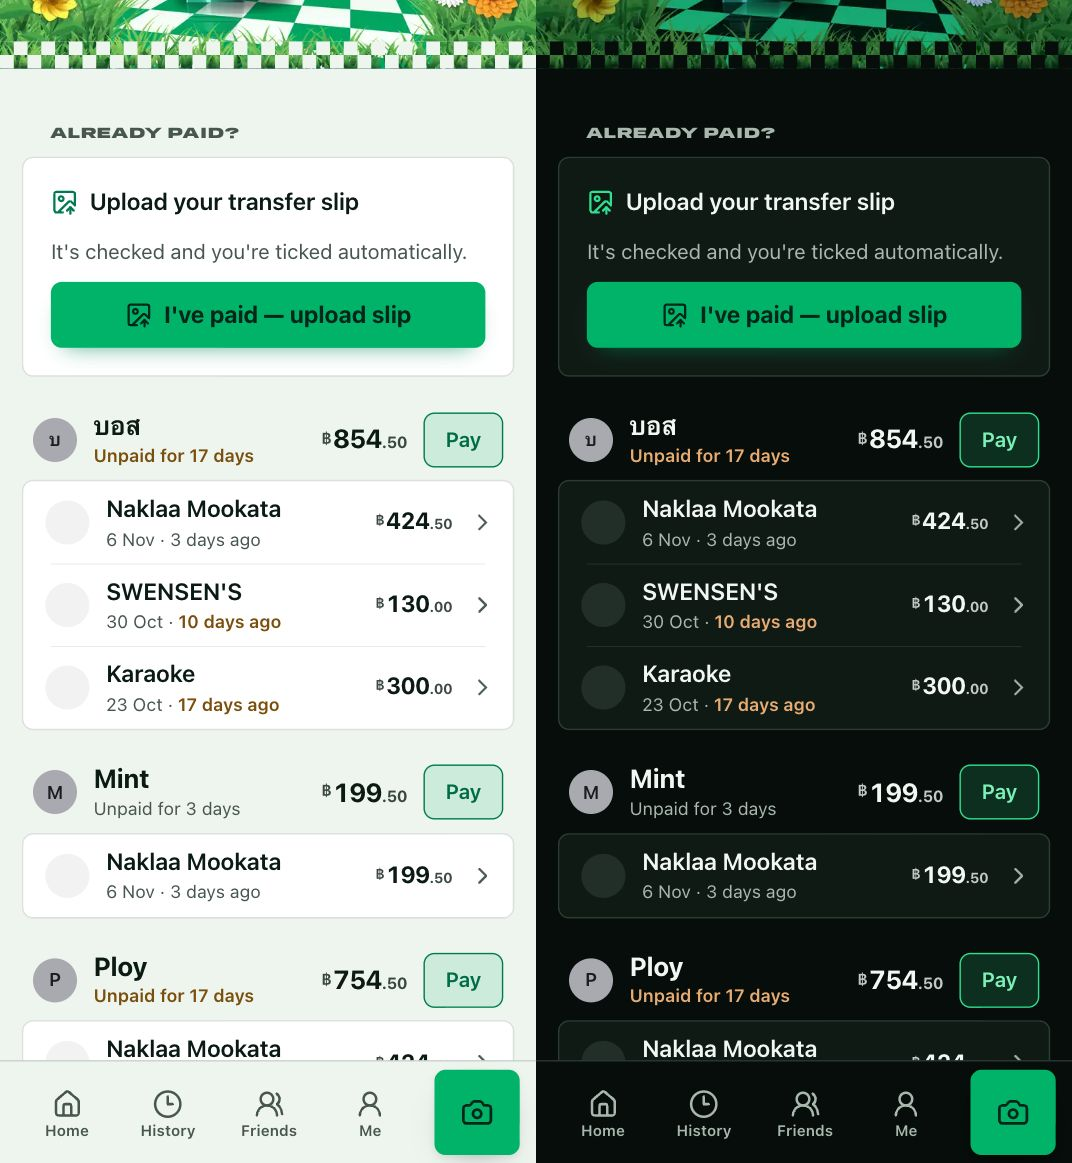
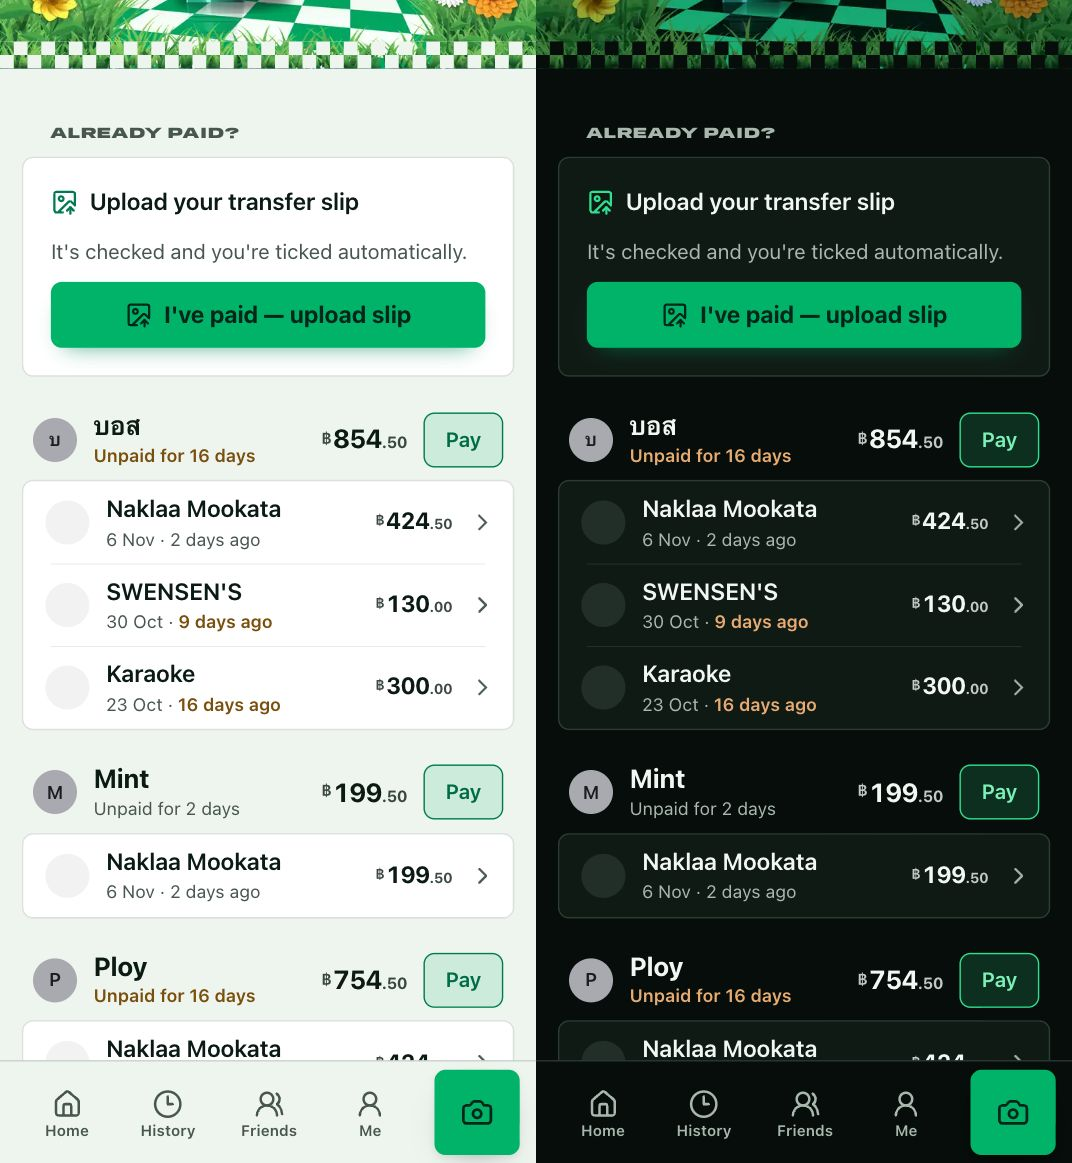
Shared list: who pays fastest; Owed to you: no sort switch
- The shared "Owed to …" list ranks who pays fastest too, counted from
  the start of each bill's day in Thailand so it agrees with "Unpaid for
  16 days" above it. The ranking is its own component, shared with Owed
  to you.
- Owed to you drops the Most owed / Waiting longest switch (most owed
  first, as before).
- Days on the shared list come from the bill's own day, so a server in
  another time zone doesn't count one too many.

diff --git a/src/components/OwedToYou.tsx b/src/components/OwedToYou.tsx
@@ -1,20 +1,18 @@
 "use client";
 
-import { CheckCheck, ChevronDown, ChevronRight, PartyPopper, Timer } from "lucide-react";
+import { CheckCheck, ChevronDown, ChevronRight, PartyPopper } from "lucide-react";
 import Link from "next/link";
 import { useEffect, useState } from "react";
 import { claimMySplits } from "@/lib/client/claim";
 import { askConfirm } from "@/lib/client/confirm";
 import { refreshEntries, refreshEntry } from "@/lib/client/historyRefresh";
-import { getEditToken, getHistory, load, save as saveLocal, type HistoryEntry } from "@/lib/client/storage";
-import { dayCount, daysBetween, owedToYou, paySpeed, type OwedBill, type OwedFriend, type PayerSpeed } from "@/lib/owed";
+import { getEditToken, getHistory, type HistoryEntry } from "@/lib/client/storage";
+import { dayCount, daysBetween, owedToYou, paySpeed, type OwedBill, type OwedFriend } from "@/lib/owed";
 import { getProfile } from "@/lib/client/profile";
 import { BoardLinkCard } from "./BoardLinkCard";
 import { PaidMark, PaymentSheet, type PaymentInput } from "./Payments";
-import { Avatar, Callout, ICON, Money, Section, Segmented, cx } from "./ui";
-
-type Order = "amount" | "waiting";
-const ORDER_KEY = "bs:owedOrder";
+import { PaySpeedList } from "./PaySpeedList";
+import { Avatar, Callout, ICON, Money, cx } from "./ui";
 
 /** How long this friend's oldest unpaid bill has waited, in days. */
 const waited = (f: OwedFriend, now: number) => Math.max(...f.bills.map((b) => daysBetween(b.date, now)));
@@ -28,7 +26,6 @@ export function OwedToYou() {
   const [ask, setAsk] = useState<{ f: OwedFriend; b: OwedBill } | null>(null);
   const [busy, setBusy] = useState<Set<string>>(new Set());
   const [error, setError] = useState<string | null>(null);
-  const [order, setOrder] = useState<Order>(() => load<Order>(ORDER_KEY, "amount"));
   const [now] = useState(Date.now);
 
   /** Records a payment on one bill (with that bill's edit token), then refreshes it. */
@@ -94,7 +91,6 @@ export function OwedToYou() {
   }, []);
 
   const friends = owedToYou(entries);
-  if (order === "waiting") friends.sort((a, b) => waited(b, now) - waited(a, now) || b.total - a.total);
   const speed = paySpeed(entries, now);
   const totals = new Map<string, number>();
   for (const f of friends) totals.set(f.currency, (totals.get(f.currency) ?? 0) + f.total);
@@ -127,18 +123,6 @@ export function OwedToYou() {
       </p>
       <BoardLinkCard name={myName} />
       {error && <Callout tone="error">{error}</Callout>}
-      <Segmented
-        label="Order"
-        value={order}
-        onChange={(o) => {
-          setOrder(o);
-          saveLocal(ORDER_KEY, o);
-        }}
-        options={[
-          { value: "amount", label: "Most owed" },
-          { value: "waiting", label: "Waiting longest" },
-        ]}
-      />
       <ul className="card rows overflow-hidden">
         {friends.map((f) => (
           <FriendRow
@@ -254,42 +238,5 @@ function FriendRow({
         </ul>
       )}
     </li>
-  );
-}
-
-/** Friends ranked by how fast they pay you. */
-function PaySpeedList({ speed }: { speed: PayerSpeed[] }) {
-  if (speed.length < 2) return null;
-  return (
-    <Section title="Who pays fastest">
-      <ol className="card rows overflow-hidden">
-        {speed.map((p, i) => {
-          const d = Math.round(p.days);
-          const bills = p.paid + p.unpaid;
-          return (
-            <li key={p.key} className="flex min-h-[60px] items-center gap-3 py-2 pr-5 pl-4">
-              <span className="w-6 shrink-0 text-center text-[15px] font-bold text-ink-2 tabular-nums">{i + 1}</span>
-              <Avatar person={p.look} size={36} />
-              <span className="min-w-0 flex-1">
-                <span className="block truncate font-semibold">{p.look.name}</span>
-                <span className="block text-[13px] text-ink-2">
-                  {/* With a bill still unpaid, the average can only grow: "8+ days". */}
-                  {p.unpaid > 0 ? `Pays in ${Math.max(d, 1)}+ ${Math.max(d, 1) === 1 ? "day" : "days"}` : d === 0 ? "Pays the same day" : `Pays in about ${dayCount(d)}`}
-                  {" · "}
-                  {bills} {bills === 1 ? "bill" : "bills"}
-                </span>
-              </span>
-              {p.unpaid > 0 && (
-                <span className={cx("flex shrink-0 items-center gap-1 text-[13px]", p.waiting >= 7 ? "font-semibold text-warn" : "text-ink-2")}>
-                  <Timer size={16} {...ICON} aria-hidden />
-                  {p.waiting === 0 ? "unpaid today" : `unpaid ${dayCount(p.waiting)}`}
-                </span>
-              )}
-            </li>
-          );
-        })}
-      </ol>
-      <p className="px-5 text-[13px] text-ink-2">Average days from the split to their payment; a bill they haven&apos;t paid counts the days so far.</p>
-    </Section>
   );
 }

diff --git a/src/lib/server/redis.ts b/src/lib/server/redis.ts
@@ -617,11 +617,11 @@ const norm = (s: string) => s.normalize("NFC").trim().toLocaleLowerCase();
 export async function otherSplitsWith(
   id: string,
   person: { id: string; name: string },
-): Promise<{ id: string; doc: SplitDoc; paid: string[]; partial: Record<string, number> }[]> {
+): Promise<{ id: string; doc: SplitDoc; paid: string[]; partial: Record<string, number>; paidAt?: Record<string, number> }[]> {
   const owner = await db().get<string>(splitOwnerKey(id));
   if (!owner) return [];
   const ids = (await db().hkeys(organiserKey(owner))).filter((x) => x !== id && isValidId(x)).slice(0, 200);
-  const out: { id: string; doc: SplitDoc; paid: string[]; partial: Record<string, number> }[] = [];
+  const out: { id: string; doc: SplitDoc; paid: string[]; partial: Record<string, number>; paidAt?: Record<string, number> }[] = [];
   await Promise.all(
     ids.map(async (sid) => {
       const s = await db().get<StoredSplit>(docKey(sid));
@@ -663,7 +663,7 @@ export async function boardFor(owner: string): Promise<string> {
 /** The organiser's splits (with payments) behind a list link, or null if there's no such list. */
 export async function boardBills(
   id: string,
-): Promise<{ id: string; doc: SplitDoc; paid: string[]; partial: Record<string, number> }[] | null> {
+): Promise<{ id: string; doc: SplitDoc; paid: string[]; partial: Record<string, number>; paidAt?: Record<string, number> }[] | null> {
   const owner = await db().get<string>(boardKey(id));
   return owner ? ownerBills(owner) : null;
 }
@@ -671,16 +671,16 @@ export async function boardBills(
 /** Every split by the organiser of split `id` (just that split if its organiser isn't known), with payments. */
 export async function sameOrganiserBills(
   id: string,
-): Promise<{ id: string; doc: SplitDoc; paid: string[]; partial: Record<string, number> }[]> {
+): Promise<{ id: string; doc: SplitDoc; paid: string[]; partial: Record<string, number>; paidAt?: Record<string, number> }[]> {
   const owner = await db().get<string>(splitOwnerKey(id));
   if (owner) return ownerBills(owner);
   const s = await db().get<StoredSplit>(docKey(id));
   return s ? [{ id, doc: s.doc, ...(await getPaidState(id, s.doc)) }] : [];
 }
 
-async function ownerBills(owner: string): Promise<{ id: string; doc: SplitDoc; paid: string[]; partial: Record<string, number> }[]> {
+async function ownerBills(owner: string): Promise<{ id: string; doc: SplitDoc; paid: string[]; partial: Record<string, number>; paidAt?: Record<string, number> }[]> {
   const ids = (await db().hkeys(organiserKey(owner))).filter(isValidId).slice(0, 300);
-  const out: { id: string; doc: SplitDoc; paid: string[]; partial: Record<string, number> }[] = [];
+  const out: { id: string; doc: SplitDoc; paid: string[]; partial: Record<string, number>; paidAt?: Record<string, number> }[] = [];
   await Promise.all(
     ids.map(async (sid) => {
       const [s, payments] = await Promise.all([db().get<StoredSplit>(docKey(sid)), getPayments(sid)]);

diff --git a/src/components/PaySpeedList.tsx b/src/components/PaySpeedList.tsx
@@ -1,0 +1,42 @@
+"use client";
+
+import { Timer } from "lucide-react";
+import { dayCount, type PayerSpeed } from "@/lib/owed";
+import { Avatar, ICON, Section, cx } from "./ui";
+
+/** Friends ranked by how fast they pay you. */
+export function PaySpeedList({ speed }: { speed: PayerSpeed[] }) {
+  if (speed.length < 2) return null;
+  return (
+    <Section title="Who pays fastest">
+      <ol className="card rows overflow-hidden">
+        {speed.map((p, i) => {
+          const d = Math.round(p.days);
+          const bills = p.paid + p.unpaid;
+          return (
+            <li key={p.key} className="flex min-h-[60px] items-center gap-3 py-2 pr-5 pl-4">
+              <span className="w-6 shrink-0 text-center text-[15px] font-bold text-ink-2 tabular-nums">{i + 1}</span>
+              <Avatar person={p.look} size={36} />
+              <span className="min-w-0 flex-1">
+                <span className="block truncate font-semibold">{p.look.name}</span>
+                <span className="block text-[13px] text-ink-2">
+                  {/* With a bill still unpaid, the average can only grow: "8+ days". */}
+                  {p.unpaid > 0 ? `Pays in ${Math.max(d, 1)}+ ${Math.max(d, 1) === 1 ? "day" : "days"}` : d === 0 ? "Pays the same day" : `Pays in about ${dayCount(d)}`}
+                  {" · "}
+                  {bills} {bills === 1 ? "bill" : "bills"}
+                </span>
+              </span>
+              {p.unpaid > 0 && (
+                <span className={cx("flex shrink-0 items-center gap-1 text-[13px]", p.waiting >= 7 ? "font-semibold text-warn" : "text-ink-2")}>
+                  <Timer size={16} {...ICON} aria-hidden />
+                  {p.waiting === 0 ? "unpaid today" : `unpaid ${dayCount(p.waiting)}`}
+                </span>
+              )}
+            </li>
+          );
+        })}
+      </ol>
+      <p className="px-5 text-[13px] text-ink-2">Average days from the split to their payment; a bill they haven&apos;t paid counts the days so far.</p>
+    </Section>
+  );
+}

diff --git a/src/lib/owed.ts b/src/lib/owed.ts
@@ -2,7 +2,7 @@
 // to you" (the organiser's view across their History). Pure.
 
 import { calculate, ORGANISER_ID } from "./calc";
-import { billDate } from "./draft";
+import { billDate, billDay } from "./draft";
 import { organiserLines, settlesDirectly, transferKey, transfers } from "./settle";
 import type { PaymentInfo, Person, SplitDoc } from "./types";
 
@@ -260,6 +260,34 @@ export function paySpeed(entries: HistoryLike[], now = Date.now()): PayerSpeed[]
   return all
     .map(({ sum, ...p }) => ({ ...p, days: sum / (p.paid + p.unpaid) }))
     .sort((a, b) => a.days - b.days || a.unpaid - b.unpaid || b.paid - a.paid);
+}
+
+/** Pay speed from the organiser's bills as stored (for the shareable list). */
+export function boardSpeed(
+  bills: { id: string; doc: SplitDoc; paid: string[]; partial: Record<string, number>; paidAt?: Record<string, number> }[],
+  now = Date.now(),
+): PayerSpeed[] {
+  return paySpeed(
+    bills.map((b) => {
+      const lines = organiserLines(b.doc, { paid: b.paid, partial: b.partial }).filter((l) => l.amount > 0);
+      const person = (id: string) => b.doc.people.find((p) => p.id === id);
+      return {
+        id: b.id,
+        title: b.doc.title,
+        // From the start of the bill's day in Thailand, so it agrees with the list's "Unpaid for 17 days".
+        createdAt: `${billDay(b.doc)}T00:00:00+07:00`,
+        currency: b.doc.currency,
+        members: lines.flatMap((l) => {
+          const p = person(l.personId);
+          return p ? [{ id: p.id, name: p.name, emoji: p.emoji, color: p.color, amount: l.amount }] : [];
+        }),
+        paidIds: lines.filter((l) => l.status === "full").map((l) => l.personId),
+        partialPaid: Object.fromEntries(lines.map((l) => [l.personId, l.paidSoFar])),
+        paidAt: Object.fromEntries(lines.flatMap((l) => (b.paidAt?.[l.key] ? [[l.personId, b.paidAt[l.key]]] : []))),
+      };
+    }),
+    now,
+  );
 }
 
 // ---- Who still owes (the organiser's shareable list) -----------------------

diff --git a/src/app/o/[id]/page.tsx b/src/app/o/[id]/page.tsx
@@ -7,7 +7,9 @@ import { BoardView } from "@/components/BoardView";
 import { BillHeader } from "@/components/Poster";
 import { ICON, Money } from "@/components/ui";
 import { formatMoney } from "@/lib/money";
-import { DAY, whoStillOwes } from "@/lib/owed";
+import { PaySpeedList } from "@/components/PaySpeedList";
+import { toDay } from "@/lib/draft";
+import { boardSpeed, DAY, whoStillOwes } from "@/lib/owed";
 import { boardBills, isValidId, storageReady } from "@/lib/server/redis";
 
 export const dynamic = "force-dynamic";
@@ -15,7 +17,7 @@ export const dynamic = "force-dynamic";
 const loadBoard = cache(async (id: string) => {
   if (!isValidId(id) || !storageReady) return null;
   const bills = await boardBills(id).catch(() => null);
-  return bills ? whoStillOwes(bills) : null;
+  return bills ? { ...whoStillOwes(bills), speed: boardSpeed(bills) } : null;
 });
 
 export async function generateMetadata({ params }: PageProps<"/o/[id]">): Promise<Metadata> {
@@ -72,6 +74,8 @@ export default async function BoardPage({ params }: PageProps<"/o/[id]">) {
 
       {n > 0 && <p className="px-5 text-[13px] text-ink-2">Tap Pay to pay everything at once, or a bill to pay just that one.</p>}
 
+      <PaySpeedList speed={b.speed} />
+
       <BoardShare id={id} title={`Owed to ${b.organiser.name}`} />
     </main>
   );
@@ -83,5 +87,5 @@ export default async function BoardPage({ params }: PageProps<"/o/[id]">) {
  */
 function daysSince(day: Date): number {
   const today = new Date().toLocaleDateString("en-CA", { timeZone: "Asia/Bangkok" });
-  return Math.max(0, Math.round((Date.parse(today) - Date.parse(day.toISOString().slice(0, 10))) / DAY));
+  return Math.max(0, Math.round((Date.parse(today) - Date.parse(toDay(day))) / DAY));
 }

diff --git a/src/lib/owed.test.ts b/src/lib/owed.test.ts
@@ -1,6 +1,6 @@
 import { describe, expect, it } from "vitest";
 import { newDoc } from "./draft";
-import { daysBetween, namesIn, owedToYou, paySpeed, unpaidPeople, whatIOwe, whoAmI, whoStillOwes, type HistoryLike, type LoadedBill } from "./owed";
+import { boardSpeed, daysBetween, namesIn, owedToYou, paySpeed, unpaidPeople, whatIOwe, whoAmI, whoStillOwes, type HistoryLike, type LoadedBill } from "./owed";
 import type { SplitDoc } from "./types";
 
 const isara = { id: "me", name: "Isara" };
@@ -87,6 +87,15 @@ describe("pay speed (who pays fastest)", () => {
       ["Ploy", 7, 1, 1, 25000, 10], // 4 days, and 10 days and counting
     ]);
   });
+  it("works from the stored bills for the shared list", () => {
+    const created = { createdAt: "2026-10-01T12:00:00Z" };
+    const dinner = { ...bill("b1", "Dinner", [isara, mint, ploy], 90000, { paid: ["mint01"] }, created), paidAt: { mint01: at("2026-10-03T12:00:00Z") } };
+    expect(boardSpeed([dinner], now).map((p) => [p.look.name, p.days, p.unpaid, p.owed])).toEqual([
+      ["Mint", 2, 0, 0],
+      ["Ploy", 19, 1, 30000],
+    ]);
+  });
+
   it("counts whole days", () => {
     expect(daysBetween("2026-10-01T12:00:00Z", now)).toBe(19);
     expect(daysBetween(now, "2026-10-01")).toBe(0);

diff --git a/README.md b/README.md
@@ -48,10 +48,10 @@ The link preview friends see in chat:
 
 **History and the phone**
 - **History**, newest bill date first, with big bills holding their bills; tap a person to see their splits and what they owe you (or you owe them). Tap yourself to see what you spent.
-- **Owed to you:** every friend who still owes you, with their total, their unpaid bills and how long they've waited ("for 16 days", amber after a week); sort by **Most owed** or **Waiting longest**. Tick a bill paid (in full or part) right there, or **Mark all paid** for a friend.
+- **Owed to you:** every friend who still owes you, with their total, their unpaid bills and how long they've waited ("for 16 days", amber after a week). Tick a bill paid (in full or part) right there, or **Mark all paid** for a friend.
 - **Who pays fastest:** friends ranked by the average days from the split to their payment; a bill they haven't paid counts the days so far, so not paying moves them down.
 - **What I owe:** on a friend's phone, everything they still owe, grouped by who they pay (to the organiser, or to each payer): the bills they've opened, plus the same organisers' other bills with them in it, also ones whose link they never got. **Pay** lets them tick which bills to pay (or all), with one QR for that total, and one slip pays the ticked bills, oldest first ("Already paid?" at the top uploads a slip straight away). They pick their name once from everyone who still owes in those friends' bills; picking themselves to pay or upload a slip also tells the app.
-- **Who still owes (shareable list):** one link (`/o/…`, with its own preview card) showing everyone who still owes you, A–Z, with all their unpaid bills and how long each has gone unpaid ("Unpaid for 17 days", "10 days ago"); each person can **Pay** (one QR for their total) or upload a slip there. Copy or share it from "Owed to you".
+- **Who still owes (shareable list):** one link (`/o/…`, with its own preview card) showing everyone who still owes you, A–Z, with all their unpaid bills, how long each has gone unpaid ("Unpaid for 16 days", "9 days ago") and **Who pays fastest**; each person can **Pay** (one QR for their total) or upload a slip there. Copy or share it from "Owed to you".
 - **Friends** page: tap a friend to see their splits. Renaming a friend (or yourself) updates every bill you've shared, old ones too (friends typed into older bills are found by name).
 - **Backup and restore** (Me page) to move splits, friends and edit rights to a new phone.
 
